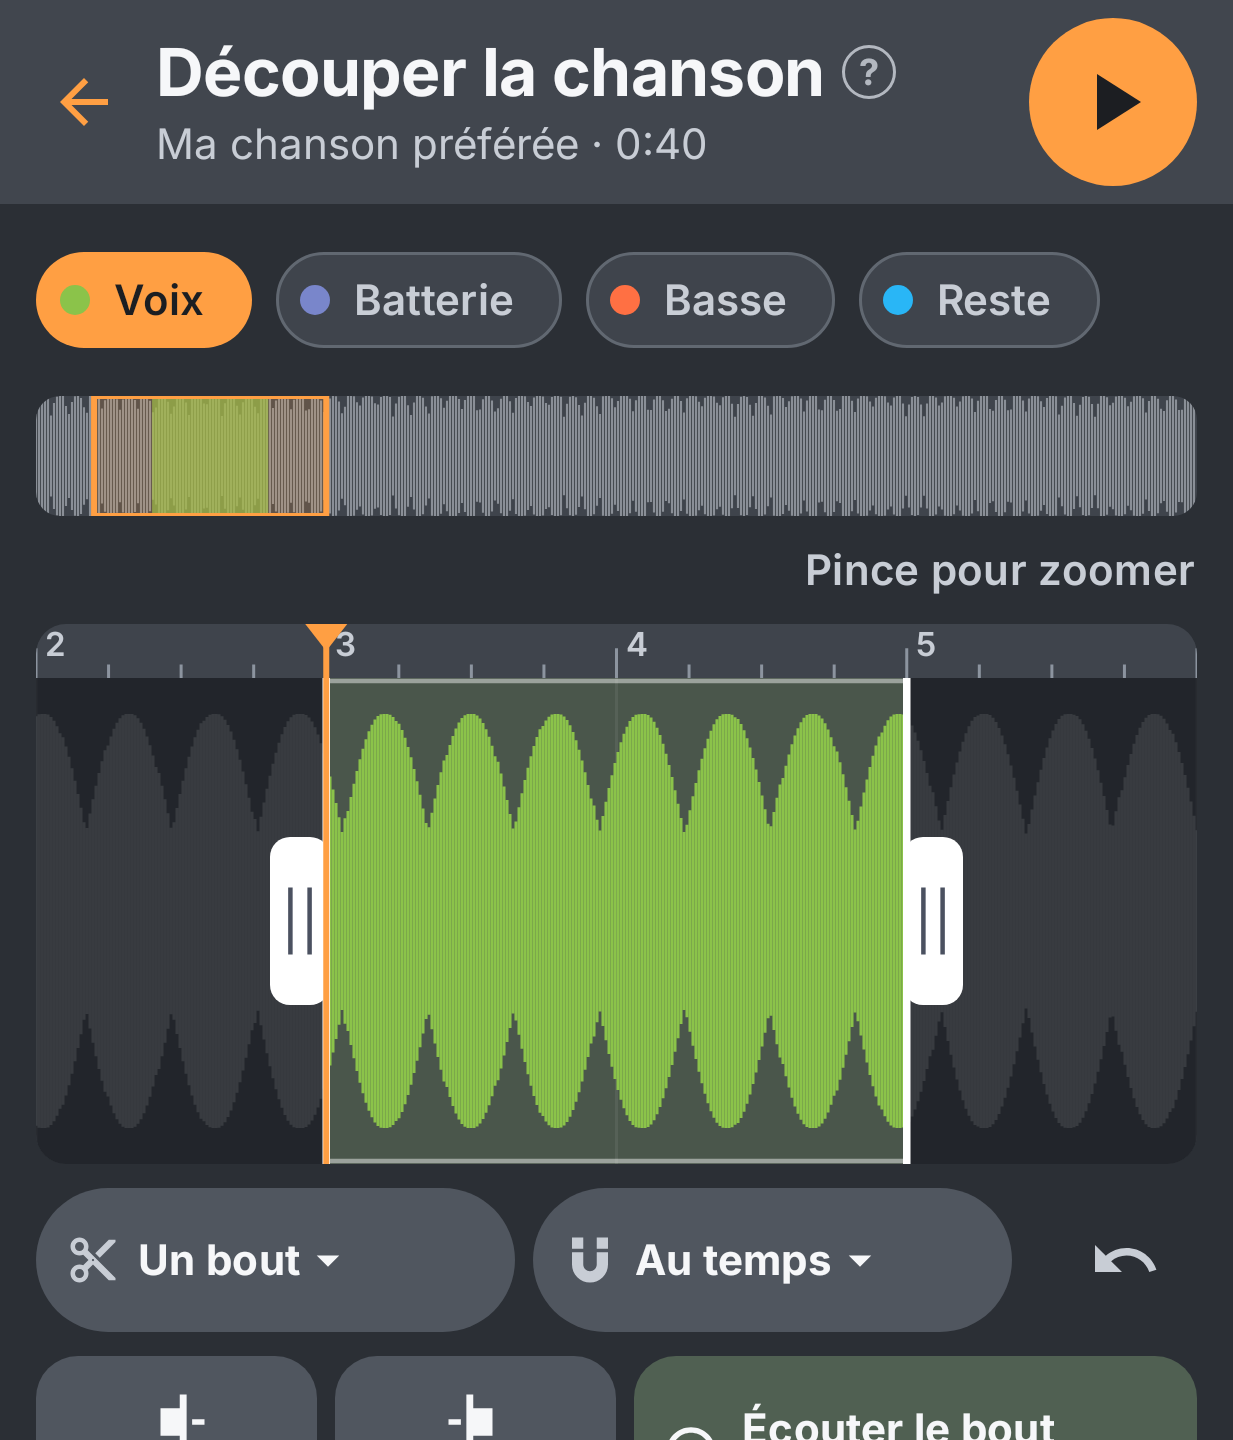
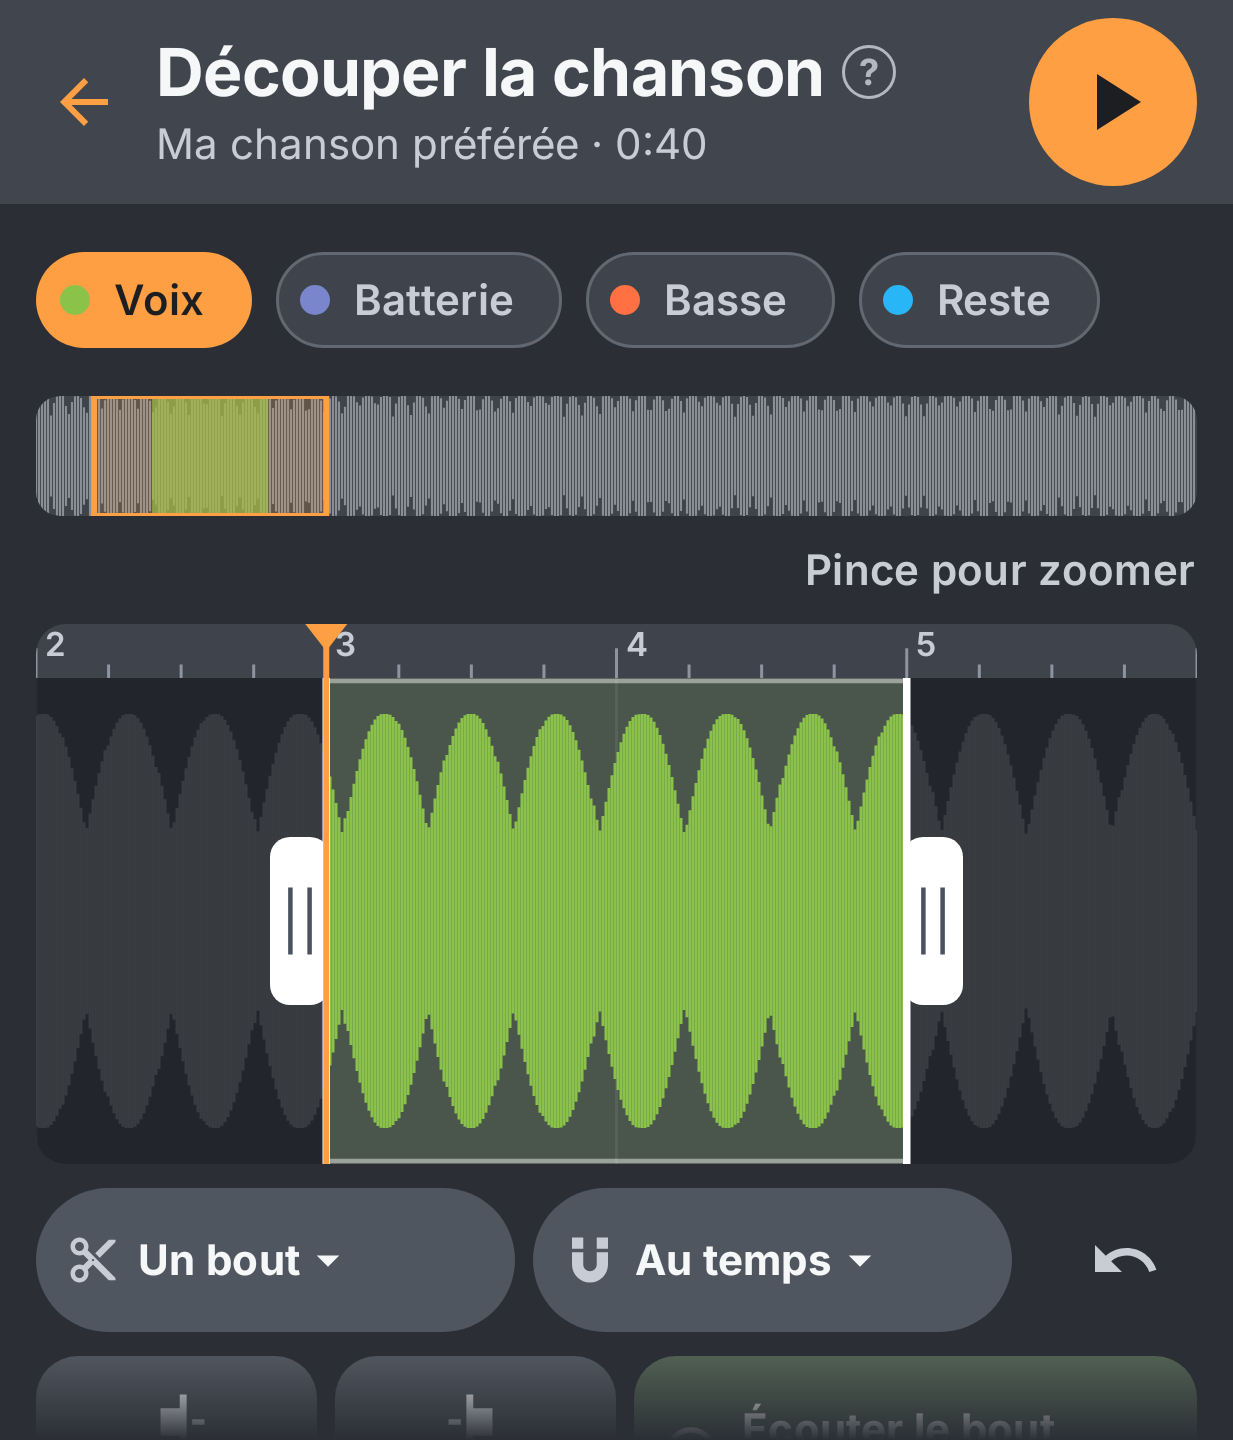
vert: CutScrollSignTest#aSignSaysTheToolsAreBelow (R3, B a screen 28)
A scrolling cut column fades at its bottom while something waits below
(the tour 5 lists' convention); captures of « Un bout » re-recorded.

Claude-Session: https://claude.ai/code/session_014RxrDMvUqqUaLHeXtn2pZS

Changed region(s): [[0.0308, 0.9688, 0.9862, 1.0]]

diff --git a/app/src/main/java/com/pocketstudio/app/remix/CutScreen.kt b/app/src/main/java/com/pocketstudio/app/remix/CutScreen.kt
@@ -206,7 +206,10 @@ fun CutScreen(
             Column(Modifier.fillMaxSize()) {
                 CutHeader(ui, model, actions, work) { actions.stop(); onClose() }
                 @Composable
-                fun curve(m: Modifier, tail: @Composable () -> Unit = {}) = Column(if (tight || scrollsAll) m.verticalScroll(rememberScrollState()) else m, verticalArrangement = Arrangement.spacedBy(8.dp)) {
+                fun curve(m: Modifier, tail: @Composable () -> Unit = {}) = androidx.compose.foundation.layout.Box(m) {
+                  val scroll = rememberScrollState()
+                  val scrolls = tight || scrollsAll
+                  Column(if (scrolls) Modifier.fillMaxSize().verticalScroll(scroll) else Modifier.fillMaxSize(), verticalArrangement = Arrangement.spacedBy(8.dp)) {
                     StemChips(model) { actions.stop() }
                     CutOverview(model, view, levels, Modifier.fillMaxWidth().height(40.dp))
                     Row(verticalAlignment = Alignment.CenterVertically) {
@@ -231,6 +234,9 @@ fun CutScreen(
                         }
                     }
                     tail()
+                  }
+                  // Tour 6, R3 (seat B a, screen 28: « plus aucun outil listé »): something waits below, the bottom fades.
+                  if (scrolls && scroll.canScrollForward) ScrollMore(Modifier.align(Alignment.BottomCenter))
                 }
                 if (wide) {
                     Row(Modifier.weight(1f).padding(start = 12.dp), horizontalArrangement = Arrangement.spacedBy(4.dp)) {
@@ -257,6 +263,19 @@ fun CutScreen(
             }
         }
     }
+}
+
+/**
+ * More below a scrolling column: its bottom fades into the page (as the lists of tour 5, ScrollHintBox), over nothing a
+ * finger needs (a touch goes through it).
+ */
+@Composable
+private fun ScrollMore(modifier: Modifier) {
+    Box(
+        modifier.fillMaxWidth().height(28.dp)
+            .background(androidx.compose.ui.graphics.Brush.verticalGradient(listOf(Color.Transparent, Neon.Background)))
+            .testTag("cut_more"),
+    )
 }
 
 @Composable
